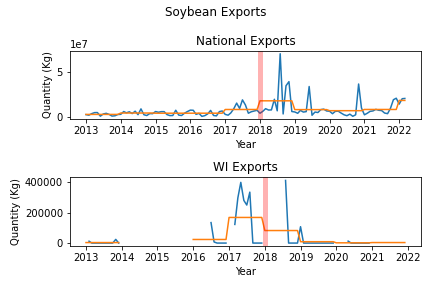
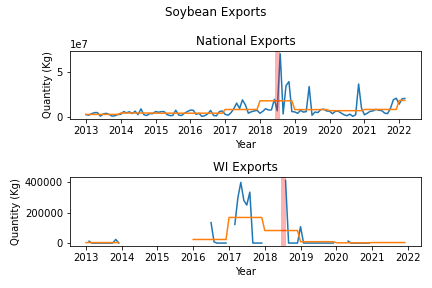
README Update

Changed region(s): [[0.5718, 0.1875, 0.662, 0.4062], [0.6019, 0.625, 0.662, 0.875]]

diff --git a/4.figures.py b/4.figures.py
@@ -119,12 +119,12 @@ def plot(df,time, quantity, title,figure):
     fig.savefig(figure)
 
 #Run plot function
-plot(master_soybeanFM,"2018-01-01", "Quantity (Kg)","Soybean Flour Exports", 'SoybeanFM.png')
-plot(master_soybean,"2018-01-01","Quantity (Kg)","Soybean Exports", 'Soybean.png')
-plot(master_whey,"2018-01-01","Quantity (Kg)","Whey Exports", "Whey.png")
-plot(master_gin,"2018-01-01","Quantity (Kg)","Ginseng Exports","Ginseng.png")
-plot(master_corn,"2018-01-01","Quantity (Kg)","Corn Exports","Corn.png")
-plot(master_milk,"2018-01-01","Quantity (L)","Milk Exports","Milk.png")
+plot(master_soybeanFM,"2018-06-01", "Quantity (Kg)","Soybean Flour Exports", 'SoybeanFM.png')
+plot(master_soybean,"2018-06-01","Quantity (Kg)","Soybean Exports", 'Soybean.png')
+plot(master_whey,"2018-06-01","Quantity (Kg)","Whey Exports", "Whey.png")
+plot(master_gin,"2018-06-01","Quantity (Kg)","Ginseng Exports","Ginseng.png")
+plot(master_corn,"2018-06-01","Quantity (Kg)","Corn Exports","Corn.png")
+plot(master_milk,"2018-06-01","Quantity (L)","Milk Exports","Milk.png")
 #%%
 #Update CSV files
 master_soybeanFM.to_csv("Master_SoybeanFM.csv", index=False)

diff --git a/README.md b/README.md
@@ -36,13 +36,13 @@ _Figures:_ visualize key statistics captured in the CSV files.
 ## __Data Handeling and Processing__
 This project used Python 3.9 for data handling and visualization. It uses 4 main scripts:
 
-1. _collect.py:_ This script is used to pull export data from the U.S. Census Bureau’s USA Trade® Online. It uses the Census API to retrieve export commodities by Harmonized System (HS) code and then stores the commodity data in CSV files. Although this project examines several commodities, exporting data into a CSV file allows the functions defined in this script to be useful for anyone seeking to retrieve general export data from USA Trade® Online. It is important to note that when doing API calls to USA Trade® Online, there are different endpoints for different variables. This project used two different endpoints to get export commodities’ values and quantities by HS code. The International Trade Data API User Guide can be found here for more details about their API system.
+1. _collect.py:_ This script is used to pull export data from the U.S. Census Bureau’s USA Trade® Online. It uses the Census API to retrieve export commodities by Harmonized System (HS) code and then stores the commodity data in CSV files. Although this project examines several commodities, exporting data into a CSV file allows the functions defined in this script to be useful for anyone seeking to retrieve general export data from USA Trade® Online. It is important to note that when doing API calls to USA Trade® Online, there are different endpoints for different variables. This project used two different endpoints to get export commodities’ values and quantities by HS code. The International Trade Data API User Guide can be found [here](https://www.census.gov/foreign-trade/reference/guides/Guide%20to%20International%20Trade%20Datasets.pdf) for more details about their API system.
 
 2. _join.py:_ The join script joins together CSV files by product or family of products. In this way, all quantity and value information for a 6-digit HS commodity is stored in one CSV file.
 
 3. _sort.py:_ The sort.py script takes the joined CSV files from join.py and organizes them into DataFrames by sorting, dropping unnecessary columns, and renaming columns. For some commodities, there are multiple quantity values that need to be aggregated to match the value variable. This script sums quantities together so that the quantity value matches the value variable. Due to some quantities being in different units, this script also handles unit conversion so that the quantity values can be summed together. After the cleaning process is complete, the DataFrames are written into CSV files by commodity.
 
-4. _figure.py:_   The figure.py starts by backing out quantity values for Wisconsin exports. Given that USA Trade® Online does not provide export quantity values by state, this script takes national export values and divides them by national export quantities to find national pricing levels for a given commodity. Assuming that national pricing is similar to Wisconsin pricing, the script then finds quantity values for Wisconsin exports by dividing Wisconsin export values by national pricing. The rest of the script creates figures to outline export quantities for a given commodity at both the national and state level.
+4. _figure.py:_   The figure.py starts by backing out quantity values for Wisconsin exports. Given that USA Trade® Online does not provide export quantity values by state, this script takes national export values and divides them by national export quantities to find national pricing levels for a given commodity. Assuming that national pricing is similar to Wisconsin pricing, the script then finds quantity values for Wisconsin exports by dividing Wisconsin export values by national pricing. Next, this script also calculates annual averages so it is easier to visualize quantity change. The rest of the script creates figures to outline export quantities for a given commodity at both the national and state level. The blue line is plotted monthly exports and the orange line is the plotted annual export averages. There is also a red reference line that marks the start of the U.S.-China Trade Wars.
 
 ## __Results__
 Overall, the results demonstrate an association between the U.S.-China trade war and a decline in Wisconsin agricultural exports. However, the impact of the trade wars does seem to vary by commodity. 
